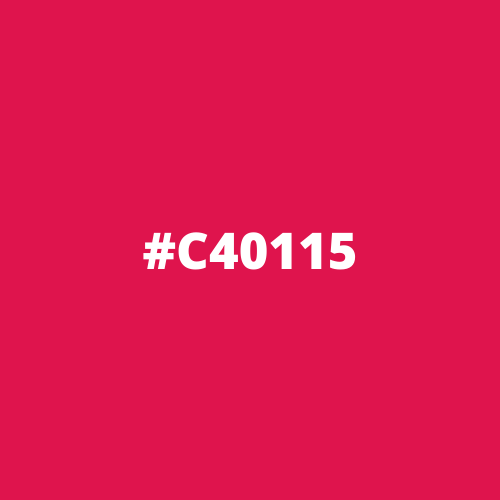
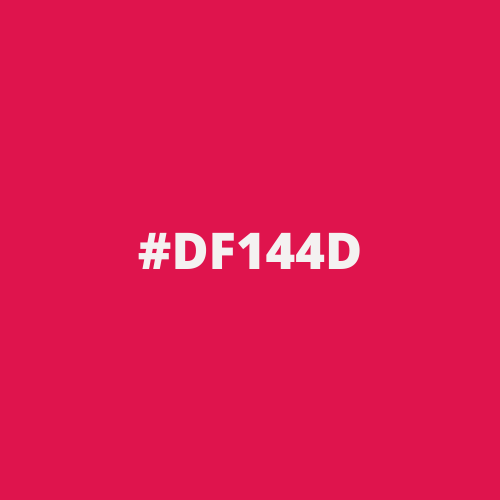
Actualizacion de pagina
Se cambiaron los colores de la pagina

Changed region(s): [[0.27, 0.45, 0.72, 0.54]]

diff --git a/Index.html b/Index.html
@@ -2,7 +2,7 @@
 <html lang="es">
   <head>
     <meta charset="UTF-8" />
-    <link rel="icon" type="ImagenesT/png" href="img/Logo1.png" />
+    <link rel="icon" type="img/png" href="img/Logo1.png" />
     <link rel="stylesheet" href="./styles.CSS" />
     <link
       href="https://cdn.jsdelivr.net/npm/bootstrap@5.1.1/dist/css/bootstrap.min.css"
@@ -13,20 +13,8 @@
     <title>Vierpi</title>
   </head>
   <body>
-      <nav class="navbar navbar-expand-lg navbar-light bg-light">
+      <nav class="navbar navbar-expand navbar-dark">
         <div class="container-fluid">
-          <a class="navbar-brand" href="#">Vierpi</a>
-          <button
-            class="navbar-toggler"
-            type="button"
-            data-bs-toggle="collapse"
-            data-bs-target="#navbarNavDropdown"
-            aria-controls="navbarNavDropdown"
-            aria-expanded="false"
-            aria-label="Toggle navigation"
-          >
-            <span class="navbar-toggler-icon"></span>
-          </button>
           <div class="collapse navbar-collapse" id="navbarNavDropdown">
             <ul class="navbar-nav">
               <li class="nav-item">
@@ -46,6 +34,8 @@
           </div>
         </div>
       </nav>
-      <div class="container luis">holi</div>
+      <div class="container luis">holi
+        <div class="carrusel"> hola</div>
+      </div>
   </body>
 </html>

diff --git a/styles.css b/styles.css
@@ -1,65 +1,13 @@
-* {
-  box-sizing: border-box;
-  padding: 0;
-  margin: 0;
-}
-
-html {
-  background-color: #f4f1f1;
-}
-
 .luis {
   background-color: #f4f1f1;
 }
 
-h1 {
-  color: blueviolet;
-  font-family: "Times New Roman", Times, serif;
-  margin-bottom: 10px;
-}
-
-.parent {
-  border: 2px black dotted;
-  display: inline-block;
-}
-
-.box {
-  display: inline-block;
-  background-color: red;
-  width: 90px;
-  height: 90px;
-  text-align: center;
-}
-
-#two {
-  background-color: green;
-}
-
-#three {
-  background: yellow;
-}
-
-#four {
-  background-color: blue;
-}
-
-.title {
-  font-size: 18px;
-  font-family: Verdana, Geneva, Tahoma, sans-serif;
-}
-
-.nav li {
-  display: inline-block;
-}
-
 .navbar {
-  color: black;
-  background-color: brown;
-  padding: 6px;
+  background-color: #df144d;
+  font-size: 125%;
 }
 
-.nav {
-  margin-top: 10px;
-  list-style-type: none;
-  padding-left: 0;
+.carrusel {
+  height: 100vh;
+  background-color: green;
 }
